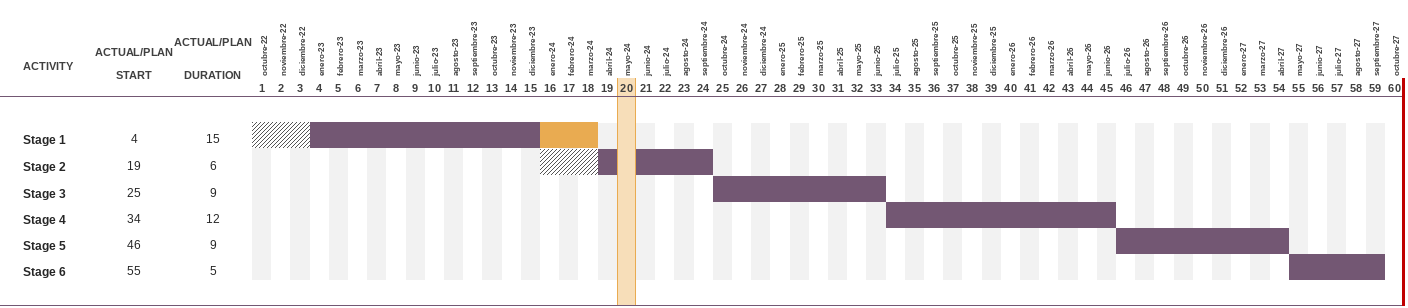
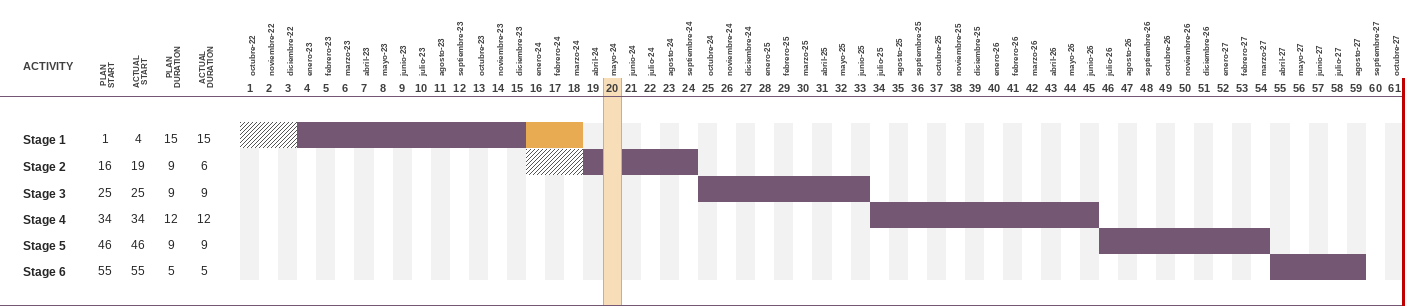
refine periods

diff --git a/main.py b/main.py
@@ -25,6 +25,7 @@ CURRENT_FILL = (247, 222, 185, 255)
 CURRENT_EDGE = (233, 171, 81, 255)
 OVERDUE = (233, 171, 81, 255)
 HATCH = (85, 85, 85, 255)
+METRIC_HEADERS = ("PLAN\nSTART", "ACTUAL\nSTART", "PLAN\nDURATION", "ACTUAL\nDURATION")
 
 
 @dataclass(frozen=True)
@@ -65,13 +66,14 @@ class Layout:
     month_label_bottom_y: int
     month_number_y: int
     activity_x: int
-    start_x: int
-    duration_x: int
+    metric_xs: tuple[int, int, int, int]
+    metric_header_bottom_y: int
     header_y: int
     row_label_x: int
     row_text_offset_y: int
     value_text_offset_y: int
     header_font_size: int
+    metric_header_font_size: int
     row_font_size: int
     value_font_size: int
     month_font_size: int
@@ -90,7 +92,7 @@ class Layout:
 PLAN_LAYOUT = Layout(
     width=2726,
     height=615,
-    plot_left=476,
+    plot_left=452,
     plot_right=2720,
     header_line_y=202,
     bottom_line_y=610,
@@ -100,15 +102,16 @@ PLAN_LAYOUT = Layout(
     month_label_bottom_y=164,
     month_number_y=188,
     activity_x=37,
-    start_x=255,
-    duration_x=403,
+    metric_xs=(220, 272, 324, 376),
+    metric_header_bottom_y=194,
     header_y=153,
     row_label_x=36,
     row_text_offset_y=27,
     value_text_offset_y=27,
     header_font_size=24,
+    metric_header_font_size=16,
     row_font_size=18,
-    value_font_size=25,
+    value_font_size=23,
     month_font_size=23,
     number_font_size=23,
 )
@@ -116,7 +119,7 @@ PLAN_LAYOUT = Layout(
 ACTUAL_LAYOUT = Layout(
     width=1408,
     height=308,
-    plot_left=252,
+    plot_left=240,
     plot_right=1404,
     header_line_y=96,
     bottom_line_y=305,
@@ -126,13 +129,14 @@ ACTUAL_LAYOUT = Layout(
     month_label_bottom_y=78,
     month_number_y=88,
     activity_x=23,
-    start_x=134,
-    duration_x=213,
+    metric_xs=(105, 138, 171, 204),
+    metric_header_bottom_y=90,
     header_y=66,
     row_label_x=23,
     row_text_offset_y=18,
     value_text_offset_y=17,
     header_font_size=11,
+    metric_header_font_size=8,
     row_font_size=12,
     value_font_size=12,
     month_font_size=8,
@@ -367,9 +371,18 @@ def period_center(layout: Layout, period_number: int, period_count: int) -> floa
     return layout.plot_left + (period_number - 0.5) * period_width(layout, period_count)
 
 
-def text_size(text: str, font: ImageFont.ImageFont) -> tuple[int, int]:
-    box = font.getbbox(text)
-    return box[2] - box[0], box[3] - box[1]
+def text_size(text: str, font: ImageFont.ImageFont, *, spacing: int = 0) -> tuple[int, int]:
+    if "\n" in text:
+        box = ImageDraw.Draw(Image.new("RGBA", (1, 1))).multiline_textbbox(
+            (0, 0),
+            text,
+            font=font,
+            spacing=spacing,
+            align="center",
+        )
+    else:
+        box = font.getbbox(text)
+    return math.ceil(box[2] - box[0]), math.ceil(box[3] - box[1])
 
 
 def draw_centered_text(
@@ -388,11 +401,16 @@ def draw_rotated_label(
     bottom_y: int,
     text: str,
     font: ImageFont.ImageFont,
+    *,
+    spacing: int = 0,
 ) -> None:
-    width, height = text_size(text, font)
+    width, height = text_size(text, font, spacing=spacing)
     label = Image.new("RGBA", (width + 4, height + 4), (255, 255, 255, 0))
     label_draw = ImageDraw.Draw(label)
-    label_draw.text((2, 2), text, font=font, fill=HEADER_TEXT)
+    if "\n" in text:
+        label_draw.multiline_text((2, 2), text, font=font, fill=HEADER_TEXT, spacing=spacing, align="center")
+    else:
+        label_draw.text((2, 2), text, font=font, fill=HEADER_TEXT)
     rotated = label.rotate(90, expand=True, resample=Image.Resampling.BICUBIC)
     x = round(x_center - rotated.width / 2)
     y = bottom_y - rotated.height
@@ -445,28 +463,16 @@ def draw_headers(
     layout: Layout,
     *,
     periods: Sequence[str],
-    start_header: str,
-    duration_header: str,
 ) -> None:
     header_font = load_font(layout.header_font_size, bold=True)
+    metric_header_font = load_font(layout.metric_header_font_size, bold=True)
     month_font = load_font(layout.month_font_size, bold=True)
     number_font = load_font(layout.number_font_size, bold=True)
 
     draw.text((layout.activity_x, layout.header_y), "ACTIVITY", font=header_font, fill=HEADER_TEXT, anchor="lm")
 
-    if "\n" in start_header:
-        line1, line2 = start_header.split("\n", maxsplit=1)
-        draw_centered_text(draw, (layout.start_x, layout.header_y - 14), line1, header_font, HEADER_TEXT)
-        draw_centered_text(draw, (layout.start_x, layout.header_y + 9), line2, header_font, HEADER_TEXT)
-    else:
-        draw_centered_text(draw, (layout.start_x, layout.header_y), start_header, header_font, HEADER_TEXT)
-
-    if "\n" in duration_header:
-        line1, line2 = duration_header.split("\n", maxsplit=1)
-        draw_centered_text(draw, (layout.duration_x, layout.header_y - 24), line1, header_font, HEADER_TEXT)
-        draw_centered_text(draw, (layout.duration_x, layout.header_y + 9), line2, header_font, HEADER_TEXT)
-    else:
-        draw_centered_text(draw, (layout.duration_x, layout.header_y), duration_header, header_font, HEADER_TEXT)
+    for x_center, label in zip(layout.metric_xs, METRIC_HEADERS, strict=True):
+        draw_rotated_label(image, x_center, layout.metric_header_bottom_y, label, metric_header_font, spacing=0)
 
     period_count = len(periods)
     for index, label in enumerate(periods, start=1):
@@ -483,11 +489,11 @@ def draw_headers(
 def draw_table_values(
     draw: ImageDraw.ImageDraw,
     layout: Layout,
-    rows: Sequence[tuple[str, int, int]],
+    rows: Sequence[tuple[str, int, int, int, int]],
 ) -> None:
     row_font = load_font(layout.row_font_size, bold=True)
     value_font = load_font(layout.value_font_size)
-    for index, (name, start, duration) in enumerate(rows):
+    for index, (name, plan_start, actual_start, plan_duration, actual_duration) in enumerate(rows):
         top = layout.row_tops[index]
         draw.text(
             (layout.row_label_x, top + layout.row_text_offset_y),
@@ -496,20 +502,15 @@ def draw_table_values(
             fill=TEXT,
             anchor="lm",
         )
-        draw_centered_text(
-            draw,
-            (layout.start_x, top + layout.value_text_offset_y),
-            str(start),
-            value_font,
-            TEXT,
-        )
-        draw_centered_text(
-            draw,
-            (layout.duration_x, top + layout.value_text_offset_y),
-            str(duration),
-            value_font,
-            TEXT,
-        )
+        values = (plan_start, actual_start, plan_duration, actual_duration)
+        for x_center, value in zip(layout.metric_xs, values, strict=True):
+            draw_centered_text(
+                draw,
+                (x_center, top + layout.value_text_offset_y),
+                str(value),
+                value_font,
+                TEXT,
+            )
 
 
 def draw_bar(
@@ -545,13 +546,14 @@ def render_plan(tasks: Sequence[Task], periods: Sequence[str]) -> Image.Image:
         draw,
         layout,
         periods=periods,
-        start_header="PLAN START",
-        duration_header="PLAN\nDURATION",
     )
     draw_table_values(
         draw,
         layout,
-        [(task.name, task.plan_start, task.plan_duration) for task in tasks],
+        [
+            (task.name, task.plan_start, task.actual_start, task.plan_duration, task.actual_duration)
+            for task in tasks
+        ],
     )
     draw_frame(draw, layout)
     return image
@@ -603,13 +605,14 @@ def render_actual(tasks: Sequence[Task], periods: Sequence[str], *, current_peri
         draw,
         layout,
         periods=periods,
-        start_header="ACTUAL/PLAN\nSTART",
-        duration_header="ACTUAL/PLAN\nDURATION",
     )
     draw_table_values(
         draw,
         layout,
-        [(task.name, task.actual_start, task.actual_duration) for task in tasks],
+        [
+            (task.name, task.plan_start, task.actual_start, task.plan_duration, task.actual_duration)
+            for task in tasks
+        ],
     )
     draw_frame(draw, layout)
     return image